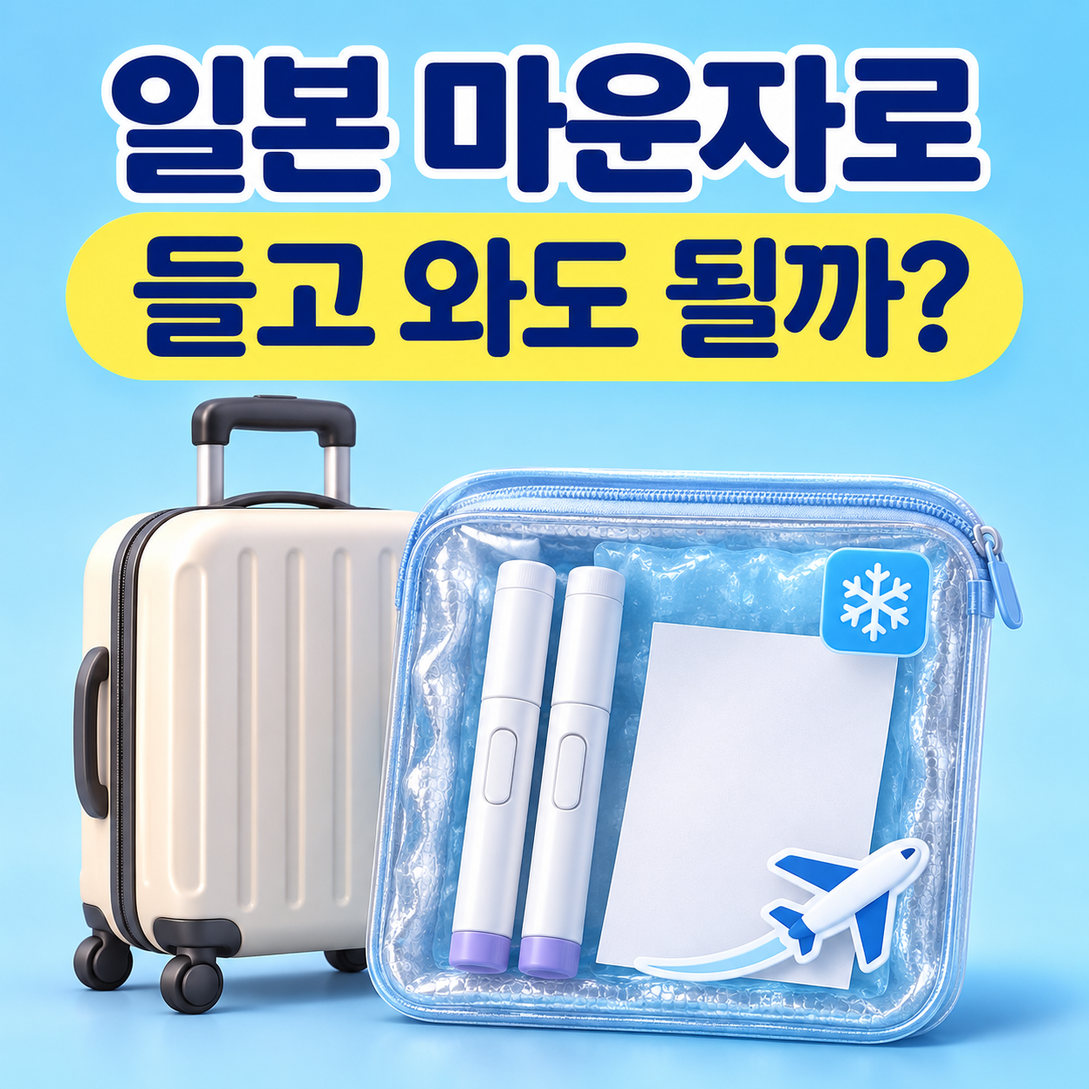
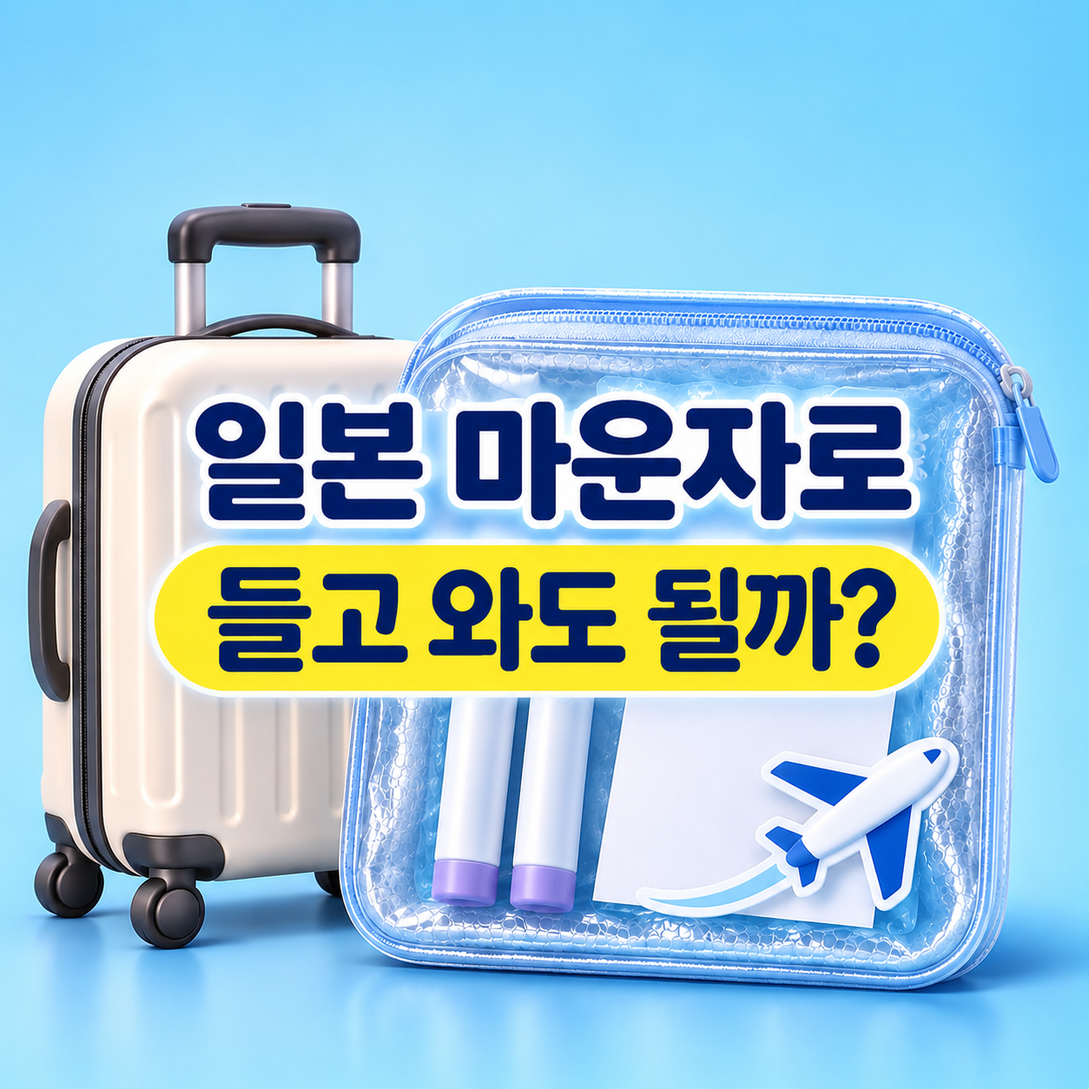
네이버 「비만약 끊으면 요요 올까? 위고비·마운자로 연구 결과」 작성

diff --git a/문서/네이버-코딩가이드/20261123_비만약-끊으면/index.html b/문서/네이버-코딩가이드/20261123_비만약-끊으면/index.html
@@ -1,0 +1,150 @@
+<meta charset="utf-8">
+<!--
+[네이버 블로그 발행 메모]
+제목: 비만약 끊으면 요요 올까? 위고비·마운자로 연구 결과
+검색 설명: 위고비·마운자로 같은 비만 치료 주사를 끊으면 체중은 어떻게 될까. 약을 계속 쓴 사람과 끊은 사람을 나눠 비교한 임상시험(SURMOUNT-4, STEP 4, STEP 1 연장 연구) 결과와, 줄여 가며 끊는 방법의 근거 수준, 끊기 전에 의사와 정할 것을 정리했다.
+카테고리: 생활 정보
+태그: #비만약 #위고비 #마운자로 #비만약요요 #비만약중단 #GLP1 #터제파타이드 #세마글루타이드 #다이어트주사 #체중관리
+글자 수: 본문 공백 포함 2,613자 / 공백 제외 2,024자 (빨간 글씨 이미지 표시·줄바꿈 제외, 2026.11.23)
+분량 기준: 3,000자 이하. 한 편.
+본문 글자 크기: 16px. 소제목 h2 24px(위 구분선), h3 18px 앞에 □ 기호(글 안에서 모두 같음). '한 줄로 말하면'만 세이지 녹색(#4f8a6b) 강조.
+계기: 2026.11.23 네이트 관심뉴스 '마운자로 평생 맞겠다 선언한 의사 "중단하면 90% 요요"'(유튜브 발언 기사) — 본문에는 쓰지 않음. 기사 속 '90%'는 출처가 분명하지 않아 쓰지 않음.
+발행 방법: 이 파일을 브라우저로 연 다음 본문을 드래그해 복사 → 네이버 편집기에 붙여넣는다.
+          본문의 빨간 글씨 [[ 이미지: 제목 (파일명) ]] 자리에 해당 파일을 올리고, 빨간 글씨는 지운다.
+          맨 아래 '(링크 자리)' 줄은 11/17 일본 마운자로 휴대 반입 글 링크로 바꾼다.
+
+[이미지 순서] 디자인: 옅은 분홍빛 바탕·먹자주 글자·로즈(계속 쓴 쪽)·슬레이트 파랑(끊은 쪽), 가는 선 그래프와 둥근 카드.
+01-타이틀.png (ChatGPT 제작, 1:1, '비만약 끊으면 / 요요 올까?'('요요 올까?' 로즈), 아침 햇살 속 체중계·상표 없는 흰 펜형 주사기·줄자·물컵, 글자 정확, 크기만 1254 → 1080px, 원본 scratchpad/backup/glp-01-original.png)
+02-마운자로-계속-vs-중단.png (AI, 4:5) — SURMOUNT-4에서 36주 뒤 계속 쓴 쪽과 가짜 약으로 바꾼 쪽의 체중이 어떻게 갈렸는지(선 그래프)
+03-위고비-끊고-1년.png (AI, 4:5) — STEP 1 연장 연구에서 끊고 1년 동안 줄었던 체중의 약 3분의 2가 돌아온 것(막대)
+05-근거가-탄탄한-것-아직-연구-중인-것.png (AI, 4:5) — 확인된 사실과 아직 근거가 약한 방법(줄여 가며 끊기 등)을 나눠 보여 줌
+06-함께-보면-좋은-글.png (공통 배너 밝은색)
+
+[근거 — 2026년 11월 23일 확인(검색 결과의 논문 초록·학술 매체 요약)]
+- SURMOUNT-4(JAMA 2024, 터제파타이드=마운자로 성분): 36주 공개 투여 뒤 무작위로 계속/가짜 약. 36주까지 평균 -20.9%. 36→88주 계속 -5.5%, 가짜 약 +14.0%(차이 -19.4%p). 0→88주 계속 -25.3%, 가짜 약 -9.9%. 리드인 감량의 80% 이상 유지: 89.5% vs 16.6%. https://jamanetwork.com/journals/jama/fullarticle/2812936
+- STEP 4(JAMA 2021, 세마글루타이드 2.4mg=위고비): 20주 투여 뒤 무작위, 20→68주 계속 -7.9%, 가짜 약 +6.9%. https://pmc.ncbi.nlm.nih.gov/articles/PMC7988425
+- STEP 1 연장(Diabetes Obes Metab 2022, Wilding): 68주 -17.3% 뒤 약을 끊고 1년, 120주에 11.6%p 되찾아 순감량 -5.6%(약 3분의 2 회복). 혈압·혈당 등 심혈관·대사 지표도 대부분 처음 쪽으로 되돌아감. 327명, 탐색적 분석, 제조사 지원. https://pmc.ncbi.nlm.nih.gov/articles/PMC9542252/
+- STEP 1 연장 연구에서는 약과 함께 생활 습관 상담(식사·운동)도 끝남(논문 설명, 검색 요약 기준).
+- 100kg 예시는 직접 계산: 100×(1-0.173)=82.7kg, 100×(1-0.056)=94.4kg, 다시 늘어난 양 11.7kg(11.6%p, 반올림 차).
+- BMJ 2026(392:e085304, 2026.1.7) 메타분석: 37개 연구·9,300명 넘음, 끊은 뒤 평균 월 0.4kg 증가, 약 1.7년에 처음 체중 추정, 심혈관·대사 지표 약 1.4년, 행동 프로그램 종료보다 월 약 0.3kg 빠름. 새 GLP-1 약 연구 8개, 최대 추적 12개월. https://pubmed.ncbi.nlm.nih.gov/41500720/
+- Epic Research(미국 진료 기록) 2년 분석: 줄인 체중을 모두 되찾은 비율 세마글루타이드 23%, 터제파타이드 21%, 리라글루타이드 27%. 당뇨병 치료·낮은 용량 사용자 포함. https://www.epicresearch.org/articles/two-years-after-stopping-glp-1s-most-patients-sustain-at-least-some-weight-loss
+- 줄여 가며 끊기: 덴마크 진료 기록 연구(2024 학회 발표) — 목표 체중 도달 뒤 평균 약 9주에 걸쳐 용량을 0까지 줄인 사람 중 26주 추적 자료가 있는 85명은 체중이 대체로 유지. 비교군 없음, 정식 논문 미확인. 비교 임상시험은 찾지 못함 → 본문은 '아직 근거가 약하다'.
+- 국내 허가 기준(식약처, 보도 기준): BMI 30 이상, 또는 27 이상이면서 고혈압·이상지질혈증·2형 당뇨병 등 동반질환. 전문의약품. 건강보험 적용 여부는 원문으로 확인하지 못해 본문에 쓰지 않음.
+- 임상시험 숫자는 평균값이고 개인 결과와 다를 수 있음. 의료 정보이므로 진단·처방을 대신하지 않는다는 안내를 끝에 둠.
+-->
+
+<p style="font-size:16px;">주사로 10kg을 뺐습니다.</p>
+<p style="font-size:16px;">그런데 비용도 부담이고 언제까지 맞아야 할지 모르겠습니다.</p>
+<p style="font-size:16px;">끊으면 다시 찔까요?</p>
+
+<p style="font-size:16px;color:#e60000;font-weight:bold;">[[ 이미지: 타이틀 (01-타이틀.png) ]]</p>
+
+<h3 style="font-size:18px;margin:24px 0 8px;color:#4f8a6b;">□ 한 줄로 말하면</h3>
+<p style="font-size:16px;">임상시험에서는 약을 끊은 무리의 평균 체중이 다시 늘어나는 결과가 되풀이해 나타났습니다.</p>
+<p style="font-size:16px;">다만 사람마다 차이가 크고, 끊은 뒤 관리 방법은 아직 연구 중입니다.</p>
+
+<p>&nbsp;</p>
+<hr style="border:none;border-top:1px solid #cfcfcf;margin:8px 0;">
+<h2 style="font-size:24px;margin:40px 0 12px;">끊으면 어떻게 되는지, 어떻게 알았을까?</h2>
+<p style="font-size:16px;">제약사들은 '중단 시험'을 따로 했습니다.</p>
+<p style="font-size:16px;">모두에게 몇 달 동안 약을 쓴 뒤, 무작위로 두 무리로 나눕니다.</p>
+<p style="font-size:16px;">한쪽은 진짜 약을 계속 맞고, 다른 쪽은 모르게 가짜 약으로 바꿉니다.</p>
+<p style="font-size:16px;">두 무리를 비교하면 '끊었을 때' 생기는 변화를 볼 수 있습니다.</p>
+
+<p>&nbsp;</p>
+<hr style="border:none;border-top:1px solid #cfcfcf;margin:8px 0;">
+<h2 style="font-size:24px;margin:40px 0 12px;">마운자로 성분, 끊은 쪽은 1년 동안 14% 늘었다</h2>
+<p style="font-size:16px;">마운자로의 성분인 터제파타이드 시험입니다.</p>
+<p style="font-size:16px;">36주 동안 약을 쓴 사람들은 체중이 평균 20.9% 줄었습니다.</p>
+<p style="font-size:16px;">그 뒤 52주(약 1년) 동안 계속 맞은 쪽은 36주 차 체중에서 평균 5.5% 더 줄었습니다.</p>
+<p style="font-size:16px;">가짜 약으로 바꾼 쪽은 같은 기간 36주 차 체중에서 평균 14.0% 늘었습니다.</p>
+
+<p style="font-size:16px;color:#e60000;font-weight:bold;">[[ 이미지: 마운자로 성분, 계속 vs 중단 (02-마운자로-계속-vs-중단.png) ]]</p>
+
+<p style="font-size:16px;">줄었던 체중의 80% 이상을 지킨 사람은 계속 쓴 쪽이 89.5%였습니다.</p>
+<p style="font-size:16px;">끊은 쪽은 16.6%에 그쳤습니다.</p>
+
+<h3 style="font-size:18px;margin:24px 0 8px;">□ 위고비 성분도 비슷했다</h3>
+<p style="font-size:16px;">위고비 성분인 세마글루타이드 시험도 같은 방식이었습니다.</p>
+<p style="font-size:16px;">20주 차부터 48주 동안 계속 쓴 쪽은 20주 차 체중에서 평균 7.9% 더 줄었습니다.</p>
+<p style="font-size:16px;">가짜 약으로 바꾼 쪽은 같은 기준으로 6.9% 늘었습니다.</p>
+
+<p>&nbsp;</p>
+<hr style="border:none;border-top:1px solid #cfcfcf;margin:8px 0;">
+<h2 style="font-size:24px;margin:40px 0 12px;">끊고 1년 지나면 얼마나 돌아올까?</h2>
+<p style="font-size:16px;">위고비 성분을 68주 쓴 뒤 약을 끊고 1년을 지켜본 연구가 있습니다.</p>
+<p style="font-size:16px;">68주 동안 평균 17.3% 줄었습니다.</p>
+<p style="font-size:16px;">끊고 1년 뒤에는 처음 체중을 기준으로 11.6%포인트만큼 다시 늘었습니다.</p>
+<p style="font-size:16px;">줄었던 체중의 약 3분의 2가 다시 붙은 셈입니다.</p>
+
+<p style="font-size:16px;color:#e60000;font-weight:bold;">[[ 이미지: 위고비 성분, 끊고 1년 (03-위고비-끊고-1년.png) ]]</p>
+
+<p style="font-size:16px;">그래도 처음보다는 평균 5.6% 가벼운 상태였습니다.</p>
+<p style="font-size:16px;">다만 좋아졌던 혈압·혈당 같은 수치도 대부분 처음 쪽으로 되돌아갔습니다.</p>
+
+<h3 style="font-size:18px;margin:24px 0 8px;">□ 100kg인 사람으로 바꿔 보면</h3>
+<p style="font-size:16px;">평균을 몸무게로 바꿔 보면 감이 옵니다.</p>
+<p style="font-size:16px;">100kg에서 시작했다면 68주 뒤 약 82.7kg이 됩니다.</p>
+<p style="font-size:16px;">약을 끊고 1년 뒤에는 약 94.4kg입니다.</p>
+<p style="font-size:16px;">17kg 남짓 빠졌다가 12kg 가까이 다시 붙는 셈입니다.</p>
+
+<p style="font-size:16px;color:#e60000;font-weight:bold;">[[ 이미지: 100kg인 사람으로 바꿔 보면 (04-100kg으로-바꿔-보면.png) ]]</p>
+
+<h3 style="font-size:18px;margin:24px 0 8px;">□ 약만 끊은 것이 아니었다</h3>
+<p style="font-size:16px;">이 연구에서는 약을 끊을 때 식사·운동 상담도 함께 끝났습니다.</p>
+<p style="font-size:16px;">그래서 이 숫자는 '약과 생활 지원이 모두 끝났을 때'의 결과입니다.</p>
+<p style="font-size:16px;">끊은 뒤에도 식사·운동 관리를 이어 가면 결과가 달라질 수 있습니다. 다만 그 효과를 따로 잰 큰 시험은 아직 없습니다.</p>
+
+<h3 style="font-size:18px;margin:24px 0 8px;">□ 여러 연구를 모아 보면</h3>
+<p style="font-size:16px;">2026년 초, 비만약을 끊은 뒤를 다룬 연구 37개를 모은 분석이 나왔습니다.</p>
+<p style="font-size:16px;">9,300명 넘는 자료를 합쳐 보니, 끊은 뒤 체중은 한 달에 평균 0.4kg씩 늘었습니다.</p>
+<p style="font-size:16px;">이 속도가 이어진다고 가정하면 약 1.7년 뒤 처음 체중으로 돌아갈 것으로 추정했습니다.</p>
+<p style="font-size:16px;">혈압·콜레스테롤 같은 대사 지표도 약 1.4년 뒤 처음 수준에 가까워질 것으로 추정했습니다.</p>
+<p style="font-size:16px;">실제로 모두를 그만큼 지켜본 결과가 아니라 계산으로 내다본 값입니다.</p>
+<p style="font-size:16px;">식사·운동 프로그램이 끝난 뒤보다 체중이 더 빨리 늘었다는 점도 눈에 띕니다.</p>
+<p style="font-size:16px;">다만 위고비·마운자로 같은 새 약을 다룬 연구는 8개뿐이었고, 끊은 뒤 최대 1년까지만 지켜봤습니다.</p>
+
+<h3 style="font-size:18px;margin:24px 0 8px;">□ 평균이 모든 사람의 결과는 아니다</h3>
+<p style="font-size:16px;">미국 진료 기록을 분석한 결과도 있습니다.</p>
+<p style="font-size:16px;">약을 끊고 2년 뒤 줄었던 체중을 모두 되찾은 사람은 세마글루타이드 사용자 약 23%, 터제파타이드 사용자 약 21%였습니다.</p>
+<p style="font-size:16px;">나머지는 일부라도 줄인 체중을 지키거나, 더 감량한 경우도 있었습니다.</p>
+<p style="font-size:16px;">다만 무작위 임상시험이 아니라 진료 기록을 살펴본 관찰 자료입니다.</p>
+<p style="font-size:16px;">당뇨병 치료로 쓴 사람과 낮은 용량을 쓴 사람도 섞여 있어, 임상시험과 같은 무게로 보기는 어렵습니다.</p>
+
+<h3 style="font-size:18px;margin:24px 0 8px;">□ 왜 다시 늘까?</h3>
+<p style="font-size:16px;">이 약들은 식욕을 줄이고 포만감을 오래 가게 합니다.</p>
+<p style="font-size:16px;">약을 끊으면 그 효과도 사라지고, 식욕이 돌아오는 경우가 많습니다.</p>
+<p style="font-size:16px;">그래서 전문가들은 비만을 오래 관리할 만성질환으로 봅니다.</p>
+
+<p>&nbsp;</p>
+<hr style="border:none;border-top:1px solid #cfcfcf;margin:8px 0;">
+<h2 style="font-size:24px;margin:40px 0 12px;">줄여 가며 끊으면 괜찮을까?</h2>
+<p style="font-size:16px;">용량을 몇 주에 걸쳐 조금씩 줄이는 방법이 관심을 받고 있습니다.</p>
+<p style="font-size:16px;">덴마크의 한 진료 기록 연구에서는 약 9주에 걸쳐 줄여 끊은 사람들이 반년 동안 체중을 대체로 지켰습니다.</p>
+<p style="font-size:16px;">하지만 추적한 사람이 85명뿐이고, 갑자기 끊은 사람과 비교하지 않았습니다.</p>
+<p style="font-size:16px;">아직은 '가능성이 있다' 정도로 보는 것이 맞습니다.</p>
+
+<p style="font-size:16px;color:#e60000;font-weight:bold;">[[ 이미지: 확인된 것과 아직 연구 중인 것 (05-근거가-탄탄한-것-아직-연구-중인-것.png) ]]</p>
+
+<p>&nbsp;</p>
+<hr style="border:none;border-top:1px solid #cfcfcf;margin:8px 0;">
+<h2 style="font-size:24px;margin:40px 0 12px;">끊기 전에 의사와 정할 것</h2>
+<ul style="font-size:16px;">
+<li>약을 끊을지, 용량을 조절할지 담당 의사와 먼저 상의하세요. 줄여 가며 끊는 방법이 모든 사람에게 필요한 것은 아니고, 알맞은 방법은 몸 상태에 따라 다릅니다.</li>
+<li>끊은 뒤 몇 달 동안 체중을 재는 날과 다시 진료받을 기준을 정하세요.</li>
+<li>식사량과 근력 운동 계획을 약을 쓰는 동안 미리 만들어 두세요.</li>
+<li>혈압·혈당·지질 수치도 끊은 뒤 다시 확인하세요.</li>
+</ul>
+
+<p>&nbsp;</p>
+<hr style="border:none;border-top:1px solid #cfcfcf;margin:8px 0;">
+<h2 style="font-size:24px;margin:40px 0 12px;">시작할 때부터 '끝'을 함께 정하기</h2>
+<p style="font-size:16px;">이 약들은 국내에서 성인에게 쓰도록 허가된 전문의약품입니다.</p>
+<p style="font-size:16px;">처음 BMI가 30 이상이거나, 27 이상 30 미만이면서 고혈압·이상지질혈증·제2형 당뇨병 같은 체중 관련 질환이 하나 이상 있을 때가 대상입니다.</p>
+<p style="font-size:16px;">처방받기 전에 '얼마나 쓰고, 어떻게 끊을지'를 함께 물어보세요.</p>
+<p style="font-size:16px;">비용과 기간을 미리 그려 두면 중간에 흔들릴 일이 줄어듭니다.</p>
+<p style="font-size:14px;color:#777;">이 글의 숫자는 임상시험 참가자의 평균이며 개인의 결과와 다를 수 있습니다. 진단과 처방, 중단 여부는 반드시 진료하는 의사와 상의하세요.</p>
+
+<p>&nbsp;</p>
+<p style="font-size:16px;color:#e60000;font-weight:bold;">[[ 이미지: 함께 보면 좋은 글 (06-함께-보면-좋은-글.png) ]]</p>
+<p style="font-size:16px;">(링크 자리) 일본에서 처방받은 마운자로, 이제 들고 와도 될까? 11월 12일부터 바뀐 반입 기준</p>

diff --git a/AGENTS.md b/AGENTS.md
@@ -232,6 +232,14 @@
 - 히스토리 가이드 후보(2026-11-15 제안, 4번 수능의 역사는 작성함): 한지 유네스코 등재(최종 결정 11.30~12.5 정부간위원회) / 김장 문화의 역사(김장철) / 단종과 영월 청령포('왕과 사는 남자' 흥행) / 순국선열의 날.
 
 ## 진행 상황 (2026-11-23 기준)
+- 2026-11-23: `문서/네이버-코딩가이드/20261123_비만약-끊으면/index.html` 작성("비만약 끊으면 요요 올까? 위고비·마운자로 연구 결과", 카테고리 생활 정보, 처음 공백 포함 1,541자 → 보강 뒤 2,304자). 네이트 관심뉴스(11/23 '마운자로 평생 맞겠다' 의사 발언 기사)를 계기로 제안한 5개 중 4번. 계기와 기사 속 '90% 요요'는 본문에 쓰지 않음.
+  - 구성: 10kg 뺐는데 끊으면? → 타이틀 → h3 한 줄로 말하면(세이지) → 중단 시험이란 → SURMOUNT-4(36주 -20.9%, 이후 계속 -5.5%·가짜 약 +14.0%, 80% 유지 89.5% vs 16.6%, h3 위고비 STEP 4 -7.9% vs +6.9%) → STEP 1 연장(68주 -17.3% → 끊고 1년 11.6%p 회복, 순 -5.6%, 대사 지표도 되돌아감, h3 왜 다시 늘까) → 줄여 끊기(덴마크 85명·비교군 없음 → 가능성 정도) → 의사와 정할 것 → '시작할 때부터 끝을 함께 정하기'(국내 허가 기준 BMI 30·27+동반질환), 의료 안내. h3 기호 □.
+  - 근거: 논문 초록·학술 매체 요약(JAMA 2024·2021, Diabetes Obes Metab 2022). 건강보험 적용 여부는 확인 못 해 쓰지 않음. **건강 글 기준(재확인)**: 개인 발언 속 수치(90% 등)는 근거를 못 찾으면 쓰지 않고, 임상시험 평균값임과 의사 상의를 밝힌다.
+  - 이미지 5장: AI 02 계속 vs 중단(선 그래프, 시작·끝 평균만 이은 직선)·03 끊고 1년(막대, 늘어난 몫 빗금)·04 확인된 것/아직 연구 중(두 카드) — 옅은 분홍 바탕·먹자주·로즈/슬레이트 파랑, 스크립트 scratchpad/zan/glp.py. 05 배너(밝은색, 11/17 일본 마운자로 휴대 반입 글 링크). ChatGPT 01 타이틀('비만약 끊으면 / 요요 올까?') 요청 중.
+  - 같은 날 사용자 요청으로 '끊고 1년 지나면 얼마나 돌아올까?'를 보강: h3 100kg인 사람으로 바꿔 보면(100 → 82.7 → 94.4kg), h3 약만 끊은 것이 아니었다(연장 연구에서 식사·운동 상담도 함께 끝남), h3 여러 연구를 모아 보면(BMJ 2026 메타분석: 37개 연구·9,300명+, 월 평균 0.4kg, 약 1.7년에 처음 체중 추정, 대사 지표 1.4년, 새 약 연구 8개·추적 최대 12개월), h3 평균이 모든 사람의 결과는 아니다(Epic 미국 진료 기록 2년: 모두 되찾은 비율 세마글루타이드 23%·터제파타이드 21%, 당뇨·저용량 섞임). 새 AI 그림 04 '100kg인 사람으로 바꿔 보면'(0부터 시작하는 막대, 배지 -17.3kg·+11.7kg, 스크립트 scratchpad/zan/glp2.py), 뒤 번호를 05 확인된 것·06 배너로 다시 매김.
+  - 같은 날 사용자 요청으로 04를 ChatGPT 인포그래픽(체중계 세 대 또는 블록 기둥, 0부터 실제 비율)으로 다시 요청. AI 버전 백업 scratchpad/backup/glp-04-ai.png, 받기 전까지 AI 버전이 자리를 지킴.
+  - ChatGPT 이미지 2장 적용: 01 타이틀('비만약 끊으면 / 요요 올까?', 아침 햇살 속 체중계·상표 없는 펜형 주사기·줄자·물컵, 글자 정확, 크기만 맞춤)·04(체중계 세 대·숫자 상자·화살표, 글자 정확, 1080×1350). 원본 scratchpad/backup/glp-01·04-original.png. 이미지 6장 완료, 대기 중인 요청 없음. 남은 일은 사용자의 네이버 발행(링크 줄 교체)뿐이다.
+  - 같은 날 외부 검수 여덟 가지 반영(공백 포함 2,613자): SURMOUNT-4 +14.0%·-5.5%는 '36주 차 체중 기준, 52주', STEP 4는 '20주 차 체중 기준, 48주', 요약은 '대부분' 대신 '끊은 무리의 평균 체중', 11.6%포인트는 '처음 체중 기준', 메타분석 1.7년·1.4년은 '속도가 이어진다고 가정한 추정', Epic은 성분명·'더 감량한 경우도'·관찰 자료, '혼자 갑자기 끊지 말라' 대신 '끊을지·조절할지 의사와 상의, 줄여 끊기가 모두에게 필요하지는 않음', 허가 기준은 '성인, BMI 30 이상 또는 27 이상 30 미만+체중 관련 질환 하나 이상'. 그림 05 '대부분' → '평균'. **임상시험 숫자 글 기준**: 중단 시험의 증감률은 어느 시점 체중이 기준인지(처음/무작위 배정 시점) 붙이고, %와 %포인트를 구분한다. 추정치는 '가정한 추정'으로, 관찰 자료는 임상시험과 구분해 쓴다. 근거가 약한 방법(줄여 끊기)을 필수 절차처럼 쓰지 않는다.
 - 2026-11-23: `문서/네이버-코딩가이드/20261123_예비번호-학과별-차이/index.html` 작성("예비 번호, 빨리 도는 학과와 안 움직이는 학과 차이", 카테고리 수능·모의고사, 공백 포함 1,922자). '수시추가합격' 소재 제안 중 사용자가 정한 주제. 11/22 「수시 추가 합격」·「예비 번호 충원율」 글의 후속, 12월 18~24일 사이 발행 권장.
   - 구성: 같은 예비 10번 장면 → 타이틀 → h3 한 줄로 말하면(청록) → 왜 움직일까(6회 지원·한 곳 등록·12.24~29 충원) → 빨리 도는 세 조건(h3 위쪽에 갈 곳·모집 인원·함께 붙는 학생) → 잘 안 움직이는 학과(최종 목표 학과, 해마다 다름) → 가늠법 목록 → '앞에서 몇 명이 떠나야 하나'로. h3 기호 ●.
   - 근거: 대교협 2027 기본사항(11/22 원문 확인)·6회 제한(11/20 어디가)·충원율 정의(11/22). 사용자 지시대로 특정 대학·학과 숫자 없이 원리만, 그림의 대학·이름·숫자는 모두 가정.

diff --git a/작성히스토리.md b/작성히스토리.md
@@ -7,7 +7,7 @@
 - **분류**는 지금 블로그에 있는 이름으로 맞췄다(작성 당시 발행 메모의 옛 이름과 다를 수 있다).
 - **날짜**는 글을 작성한 날(폴더 이름 기준)이다. 실제 발행일과 다를 수 있다.
 - **폴더**는 작성 당시 저장소 경로다. 같은 날 글이 여러 편이면 나중에 `yyyymmdd_NN개` 폴더로 옮겨진다.
-- 2026-11-23 기준 106편(네이버 80 · 티스토리 코딩 6 · 이코노미 11 · 히스토리 9).
+- 2026-11-23 기준 107편(네이버 81 · 티스토리 코딩 6 · 이코노미 11 · 히스토리 9).
 
 ## 주제별 찾아보기
 
@@ -92,6 +92,8 @@
     - 경도인지장애와 건망증·치매의 차이, 무료 검사, 위험 요인 · `경도인지장애, 치매, 건망증, 치매안심센터, 무료 검사`
   - 2026.11.22 **디카페인도 카페인이 있을까? 밤에 마셔도 될까**
     - 디카페인 커피에 남은 카페인 양, 밤에 마셔도 되는지, 바뀌는 표시 기준 · `디카페인, 카페인, 커피, 수면, 식약처 기준`
+  - 2026.11.23 **비만약 끊으면 요요 올까? 위고비·마운자로 연구 결과**
+    - 위고비·마운자로를 끊은 뒤 체중 변화(SURMOUNT-4·STEP 4·STEP 1 연장 연구)와 줄여 끊기의 근거 수준, 끊기 전 의사와 정할 것 · `비만약, 위고비, 마운자로, 요요, GLP-1, 비만약 중단`
 - **코딩 정보**
   - 2026.11.15 **바이브 코딩이 뭐길래, AI에게 말로 코딩을 시켜 봤다**
     - 바이브 코딩의 뜻과 유래, 직접 써 본 경험, 보안 문제(45%), 잘 쓰는 법 · `바이브 코딩, AI 코딩, 카파시, 코드 보안, 코딩 도구`
@@ -353,6 +355,7 @@
   - 11.21 [네이버 코딩가이드] 운전면허 취득 방법 3가지, 전문학원·일반학원·독학 비교
   - 11.22 [네이버 코딩가이드] 경도인지장애, 치매와 무엇이 다를까? 무료 검사까지
   - 11.22 [네이버 코딩가이드] 디카페인도 카페인이 있을까? 밤에 마셔도 될까
+  - 11.23 [네이버 코딩가이드] 비만약 끊으면 요요 올까? 위고비·마운자로 연구 결과
 - **여행·전시·역사 여행**
   - 11.14 [네이버 코딩가이드] 정선 민둥산 억새 산행 다녀왔습니다 (증산초등학교 코스, 주차)
   - 11.15 [네이버 코딩가이드] 남양주 다산 코다리조림 맛집, 황금코다리 다산점 다녀왔어요
@@ -1070,6 +1073,15 @@
 - 검색 설명(발행 메모): 카카오뱅크 더 체크카드와 케이뱅크 ONE 체크카드를 같은 한 달 소비 세 가지로 직접 계산해 비교했다. 혜택을 고르는 단위(하루·한 달), 5% 대상 브랜드, 건당 1만 원 조건, 한도 차이와 내 소비에 맞는 카드 고르는 법.
 - 태그: #카카오뱅크더체크카드 #케이뱅크ONE체크카드 #더체크카드 #ONE체크카드 #체크카드비교 #체크카드추천 #인터넷은행체크카드 #체크카드캐시백 #카카오뱅크체크카드 #케이뱅크체크카드
 - 폴더: `문서/네이버-코딩가이드/20261123_더체크-ONE체크-비교`
+- 발행 주소: (모름)
+
+#### 2026.11.23 · 비만약 끊으면 요요 올까? 위고비·마운자로 연구 결과
+- 분류: 생활 정보
+- 요약: 위고비·마운자로를 끊은 뒤 체중 변화(SURMOUNT-4·STEP 4·STEP 1 연장 연구)와 줄여 끊기의 근거 수준, 끊기 전 의사와 정할 것
+- 키워드: 비만약, 위고비, 마운자로, 요요, GLP-1, 비만약 중단
+- 검색 설명(발행 메모): 위고비·마운자로 같은 비만 치료 주사를 끊으면 체중은 어떻게 될까. 약을 계속 쓴 사람과 끊은 사람을 나눠 비교한 임상시험(SURMOUNT-4, STEP 4, STEP 1 연장 연구) 결과와, 줄여 가며 끊는 방법의 근거 수준, 끊기 전에 의사와 정할 것을 정리했다.
+- 태그: #비만약 #위고비 #마운자로 #비만약요요 #비만약중단 #GLP1 #터제파타이드 #세마글루타이드 #다이어트주사 #체중관리
+- 폴더: `문서/네이버-코딩가이드/20261123_비만약-끊으면`
 - 발행 주소: (모름)
 
 #### 2026.11.23 · 빌보드 200 1위는 어떻게 정할까? 앨범 판매와 스트리밍 환산
